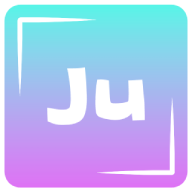
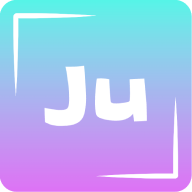
feat：更换pwa图片

diff --git a/vite.config.ts b/vite.config.ts
@@ -119,7 +119,7 @@ export default defineConfig({
     // https://github.com/antfu/vite-plugin-pwa
     VitePWA({
       registerType: 'autoUpdate',
-      includeAssets: ['favicon.svg'],
+      includeAssets: ['favicon.svg', 'safari-pinned-tab.svg'],
       manifest: {
         name: 'JuPeng\'s Blog',
         short_name: 'JuPeng\'s Blog',
